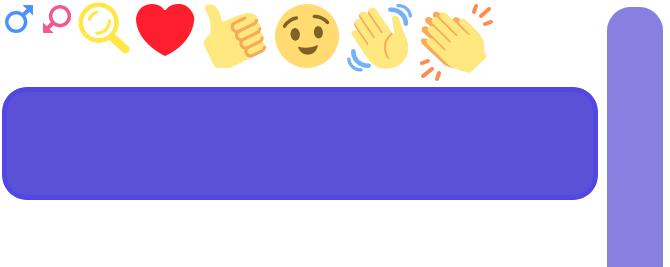
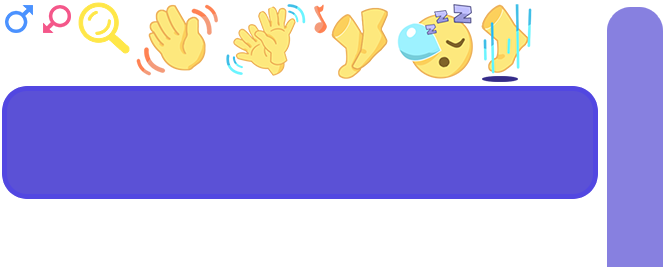
人物小面板图片替换

diff --git a/src/pica/render/ui/PicaPartyNavigation/PicaTownNavigationPanel.ts b/src/pica/render/ui/PicaPartyNavigation/PicaTownNavigationPanel.ts
@@ -6,8 +6,6 @@ import { Font, Handler, i18n, Url } from "utils";
 
 export class PicaTownNavigationPanel extends Phaser.GameObjects.Container {
     private mGameGrid: GameGridTable;
-    private hotelBtn: Button;
-    private picatownBtn: Button;
     private key: string;
     private dpr: number;
     private zoom: number;
@@ -24,7 +22,6 @@ export class PicaTownNavigationPanel extends Phaser.GameObjects.Container {
         this.create();
     }
     create() {
-      
         const tableConfig = {
             x: 0,
             y: 60 * this.dpr,
@@ -44,7 +41,7 @@ export class PicaTownNavigationPanel extends Phaser.GameObjects.Container {
                 const scene = cell.scene, index = cell.index,
                     item = cell.item;
                 if (cellContainer === null) {
-                    cellContainer = new PartyListItem(this.scene, this.key, this.dpr);
+                    cellContainer = new TownListItem(this.scene, this.key, this.dpr);
                 }
                 cellContainer.setPartyData(item, index);
                 return cellContainer;
@@ -86,23 +83,15 @@ export class PicaTownNavigationPanel extends Phaser.GameObjects.Container {
     destroy() {
         super.destroy();
     }
-    private onGridTableHandler(item: PartyListItem) {
+    private onGridTableHandler(item: TownListItem) {
         this.onSendHandler(item.partyData);
-    }
-    private onHotelHandler() {
-        if (!this.partyData) return;
-        if (this.sendHandler) this.sendHandler.runWith(["hotel", this.partyData.hotel]);
-    }
-    private onPicatownHandler() {
-        if (!this.partyData) return;
-        if (this.sendHandler) this.sendHandler.runWith(["pictown", this.partyData.picatown]);
     }
     private onSendHandler(data: any) {// op_client.IEditModeRoom
         if (this.sendHandler) this.sendHandler.runWith(["partylist", data]);
     }
 }
 
-class PartyListItem extends Phaser.GameObjects.Container {
+class TownListItem extends Phaser.GameObjects.Container {
     public partyData: any;// op_client.IEditModeRoom
     private key: string;
     private dpr: number;

diff --git a/src/pica/render/ui/PicaPartyNavigation/PicaPartyNavigationPanel.ts b/src/pica/render/ui/PicaPartyNavigation/PicaPartyNavigationPanel.ts
@@ -73,16 +73,21 @@ export class PicaPartyNavigationPanel extends PicaBasePanel {
         this.signProgressPanel = new SignProgressPanel(this.scene, 252 * this.dpr, 45 * this.dpr, this.key, this.dpr);
         this.signProgressPanel.y = -this.height * 0.5 + 15 * this.dpr;
         this.signProgressPanel.setHandler(new Handler(this, this.onProgressHandler));
+        this.content.add([this.bg, this.tilteName, this.signProgressPanel]);
         this.selectLine = this.scene.make.graphics(undefined, false);
         this.itemtips = new ItemInfoTips(this.scene, 121 * this.dpr, 46 * this.dpr, UIAtlasName.uicommon, "tips_bg", this.dpr);
         this.itemtips.setVisible(false);
-        this.content.add([this.bg, this.signProgressPanel]);
+        this.content.add([this.selectLine, this.itemtips]);
+        this.createOptionButtons();
 
         this.add(this.content);
         this.resize(0, 0);
         super.init();
+        this.playMove(new Handler(this, () => {
+
+        }));
     }
-    createOptionButtons() {
+    protected createOptionButtons() {
         const arr = [{ text: i18n.t("partynav.town"), type: 1 }, { text: i18n.t("player_info.room"), type: 2 }, { text: i18n.t("partynav.store"), type: 3 }];
         const allLin = 272 * this.dpr;
         const cellwidth = allLin / arr.length;

diff --git a/src/pica/render/ui/PicaExploreLog/PicaExploreLogSettlePanel.ts b/src/pica/render/ui/PicaExploreLog/PicaExploreLogSettlePanel.ts
@@ -112,6 +112,7 @@ export class PicaExploreLogSettlePanel extends ButtonEventDispatcher {
         this.setLayoutMask(this.maskWidth, this.maskHeight);
         const previous = this.getProgressValue(content.previousProgress);
         this.starPro.setProgress(previous, 500);
+        this.setStarProgressInfo();
     }
 
     private initParam() {
@@ -272,7 +273,7 @@ export class PicaExploreLogSettlePanel extends ButtonEventDispatcher {
             },
         });
         this.tweens.push(tween);
-        this.setStarProgressInfo();
+        // this.setStarProgressInfo();
         this.starText.visible = true;
     }
 
@@ -304,8 +305,10 @@ export class PicaExploreLogSettlePanel extends ButtonEventDispatcher {
         const clues = this.settleData.clue;
         this.unkownImg.visible = false;
         if (clues) {
+            let first: boolean = false;
             for (const clue of clues) {
-                if (clue.star > riado) {
+                if (!first && clue.star > riado) {
+                    first = true;
                     this.unkownImg.visible = true;
                     const xx = -width * 0.5 + (clue.star - 1) * (cellWidth + space) + cellWidth * 0.5;
                     this.unkownImg.x = xx;

diff --git a/src/pica/render/ui/PicaNewRole/PicaNewRolePanel.ts b/src/pica/render/ui/PicaNewRole/PicaNewRolePanel.ts
@@ -217,11 +217,11 @@ class PeopleActionContainer extends Phaser.GameObjects.Container {
         this.background = this.scene.make.image({ key: UIAtlasName.people_action, frame: "people_action_bg" });
         this.setSize(this.background.width, this.background.height);
         this.add(this.background);
-        const posx = -this.width * 0.5 + 5 * dpr;
+        const posx = -this.width * 0.5 + 6 * dpr;
         for (let i = 0; i < 5; i++) {
             const frame = "people_action_" + (i + 1);
             const button = new Button(this.scene, UIAtlasName.people_action, frame);
-            button.x = posx + button.width * 0.5 + (button.width + 10 * dpr) * i;
+            button.x = posx + button.width * 0.5 + (button.width + 8* dpr) * i;
             button["action"] = frame;
             button.on(ClickEvent.Tap, this.onActionHandler, this);
             this.add(button);

diff --git a/src/pica/game/ui/PicaRoam/PicaRoamMediator.ts b/src/pica/game/ui/PicaRoam/PicaRoamMediator.ts
@@ -122,6 +122,9 @@ export class PicaRoamMediator extends BasicMediator {
         for (const data of this.poolsData) {
             if (data.id === content.poolUpdate.id) {
                 Object.assign(data, content.poolUpdate);
+                for (const reward of data.progressAward) {
+                    this.config.getBatchItemDatas(reward.rewards);
+                }
             }
         }
         this.updateServiceTime(this.poolsData);
@@ -204,5 +207,9 @@ export class PicaRoamMediator extends BasicMediator {
             return;
         }
         return this.game.user.userData;
+    }
+
+    get config(): BaseDataConfigManager {
+        return <BaseDataConfigManager>this.game.configManager;
     }
 }

diff --git a/src/pica/render/ui/PicaEffectMgr/PicaLevelUpEffectPanel.ts b/src/pica/render/ui/PicaEffectMgr/PicaLevelUpEffectPanel.ts
@@ -43,7 +43,17 @@ export class PicaLevelUpEffectPanel extends Phaser.GameObjects.Container {
         this.sendHander = send;
     }
     public setLevelUpData(data) {
-        this.effectQueue = this.effectQueue.concat(data);
+        for (const temp of data) {
+            let have: boolean = false;
+            for (const mm of this.effectQueue) {
+                if (temp.level === mm.level) {
+                    have = true;
+                }
+            }
+            if (!have) {
+                this.effectQueue.push(temp);
+            }
+        }
         this.playNext();
     }
 

diff --git a/src/pica/render/ui/PicaExploreList/PicaExploreListPanel.ts b/src/pica/render/ui/PicaExploreList/PicaExploreListPanel.ts
@@ -148,7 +148,7 @@ export class PicaExploreListPanel extends PicaBasePanel {
             this.openDetialPanel();
             this.detialPanel.setCaptoreResultData(data);
         } else if (tag === "roomid") {
-            if (this.tempDatas.value < data.energyCost) {
+            if (this.tempDatas.value < data.costEnergy) {
                 const noticedata = {
                     text: [{ text: i18n.t("furnicompose.selecttips"), node: undefined }]
                 };
